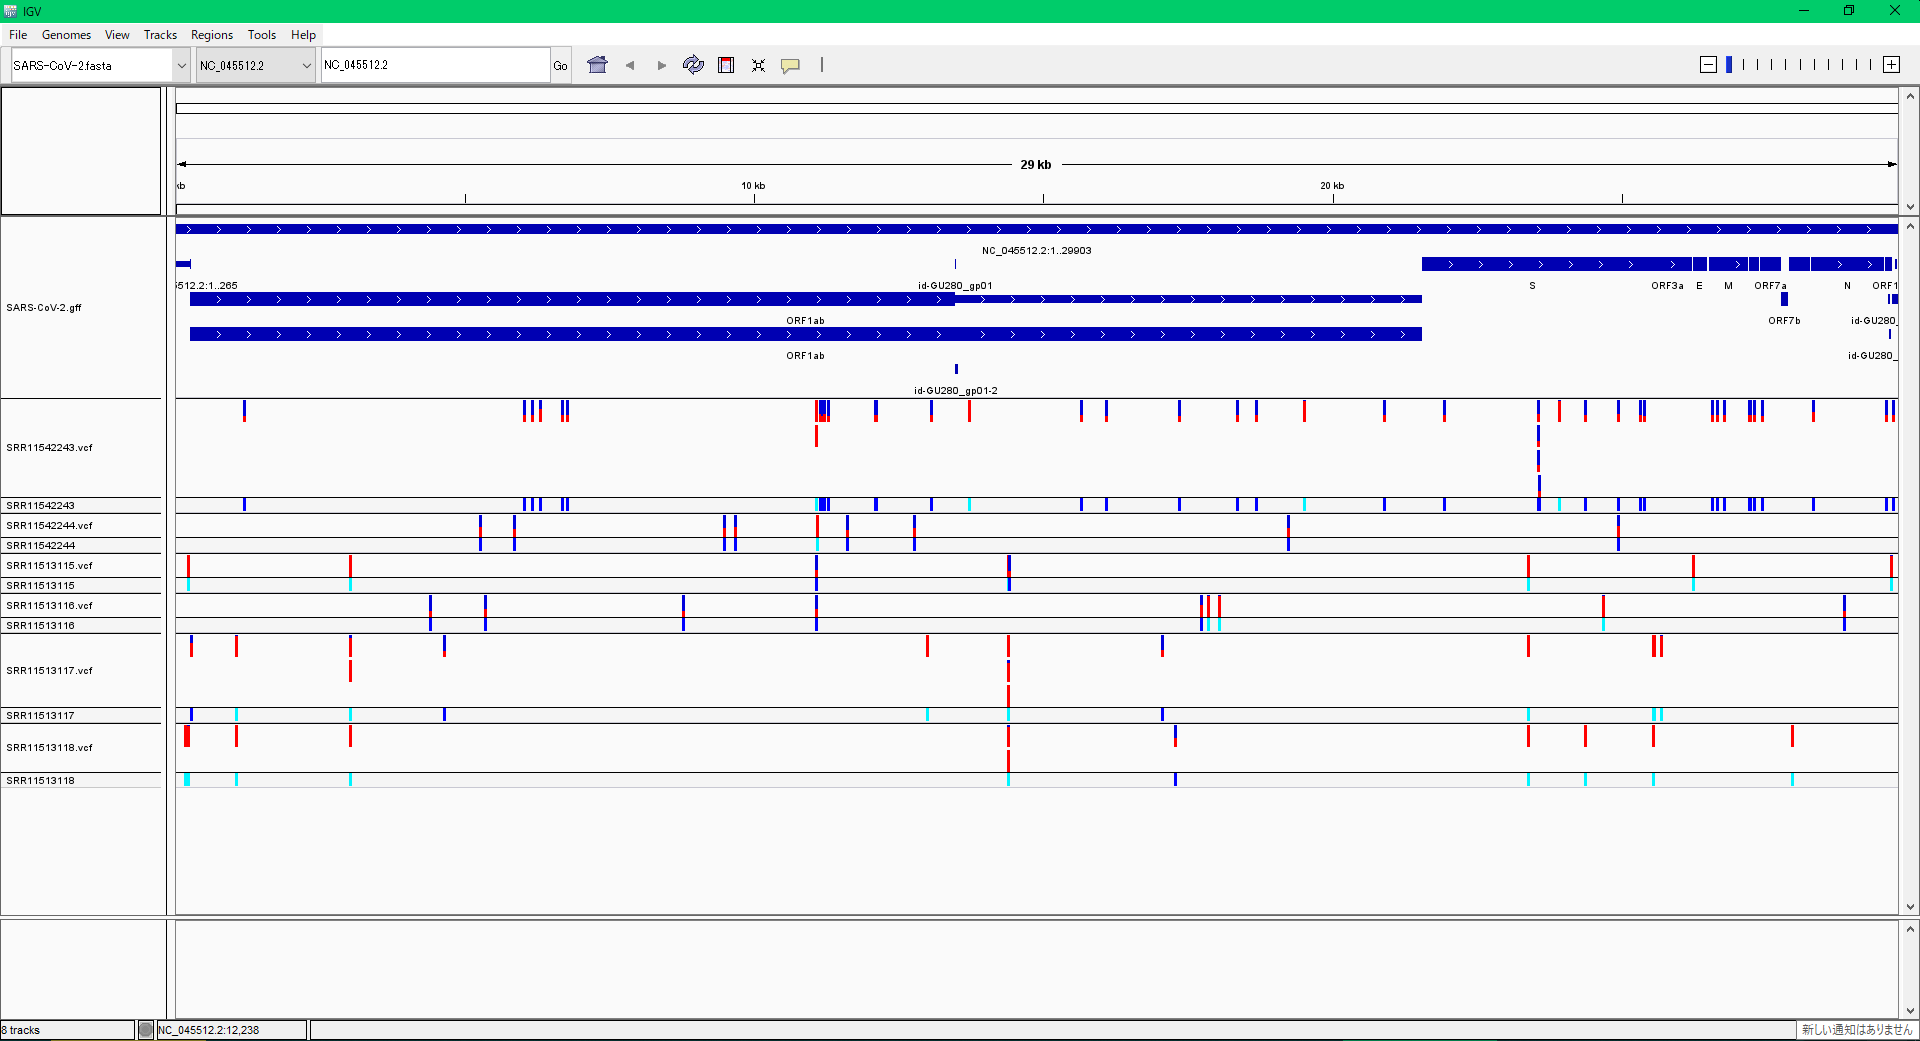
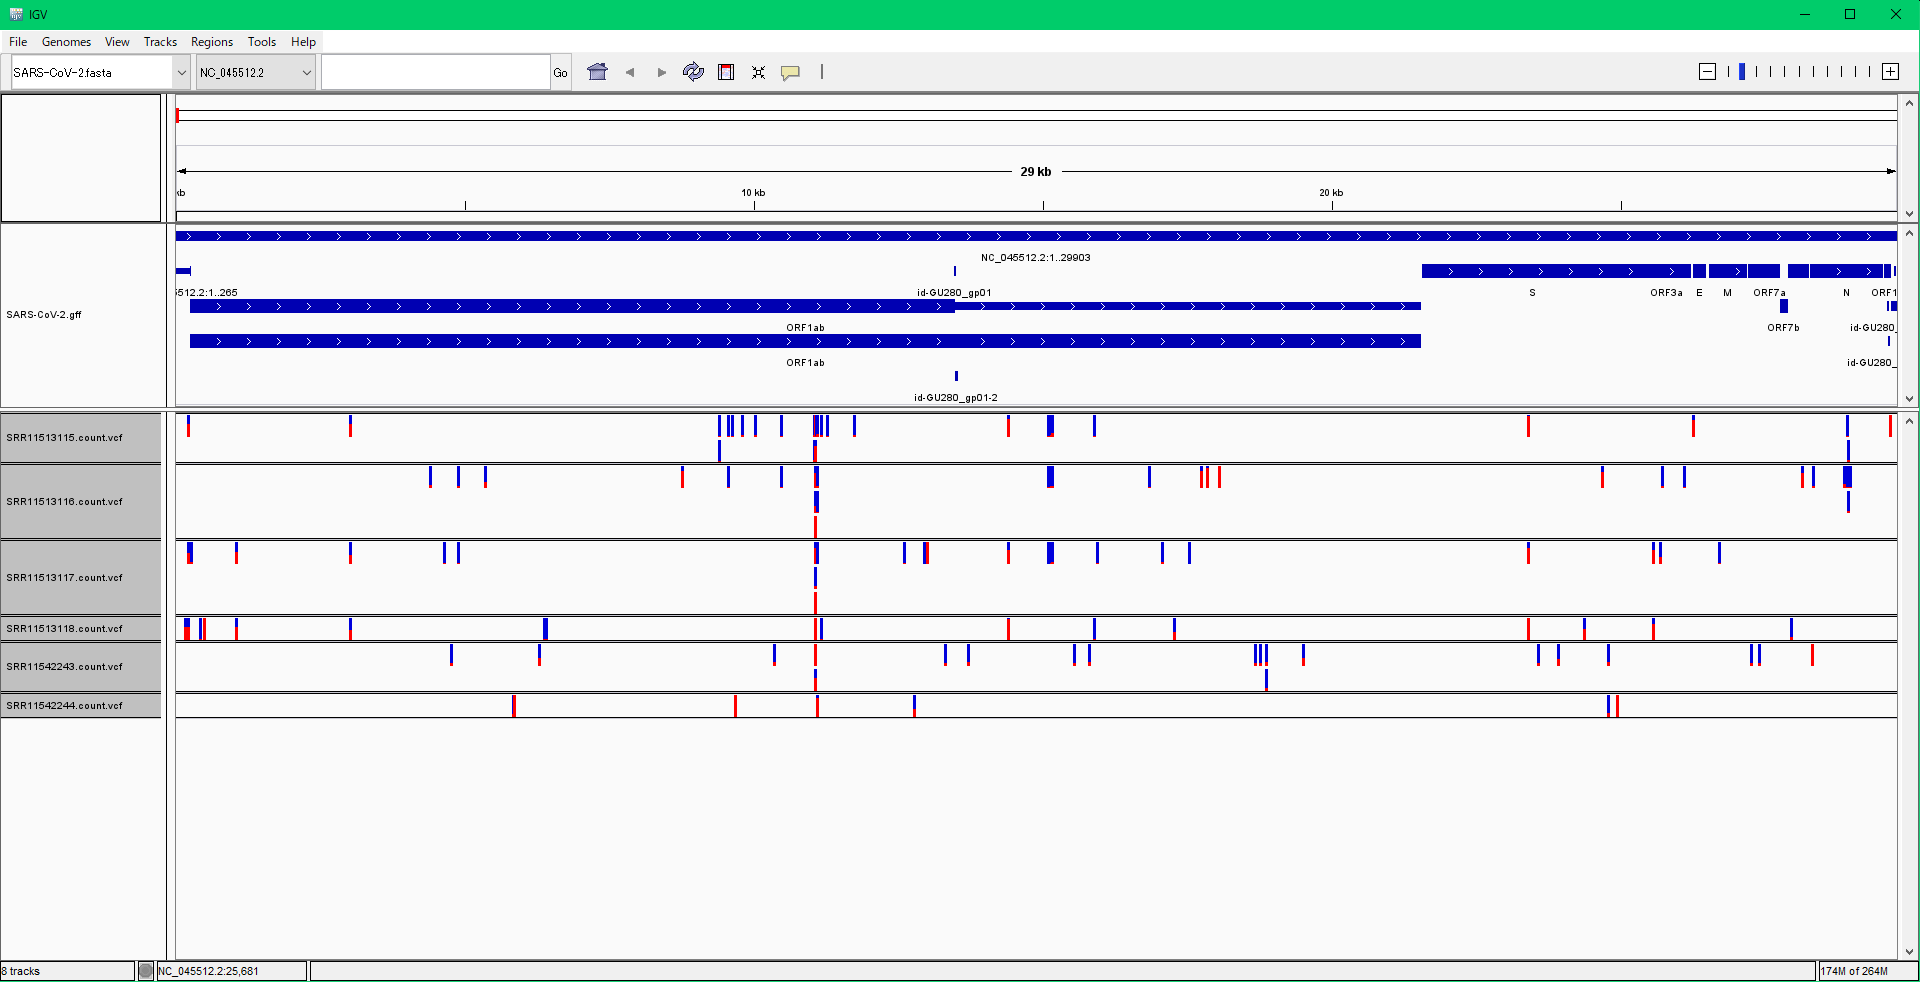
update covid19 page

diff --git a/covid19/index_ja.html b/covid19/index_ja.html
@@ -110,15 +110,20 @@ TTACAAAGTCCTCAGAATACAAAGGTCCTATTACGGATGTTTTCTACAAAGAAAACAGTTACACAACAACCATAAAACCA
     <li>確認用ファイル<br>
     <a href = "SARS-CoV-2.fasta" target = "_blank">SARS-CoV-2.fasta</a> From NCBI<br>
     <a href = "SARS-CoV-2.gff" target = "_blank">SARS-CoV-2.gff</a> From NCBI<br>
-    <a href = "SRR11542243.vcf" target = "_blank">SRR11542243.vcf</a> Sample from University Malaya<br>
-    <a href = "SRR11542244.vcf" target = "_blank">SRR11542244.vcf</a> Sample from University Malaya<br>
-    <a href = "SRR11513115.vcf" target = "_blank">SRR11513115.vcf</a> Sample from Utah Public Health Laboratory<br>
-    <a href = "SRR11513116.vcf" target = "_blank">SRR11513116.vcf</a> Sample from Utah Public Health Laboratory<br>
-    <a href = "SRR11513117.vcf" target = "_blank">SRR11513117.vcf</a> Sample from Utah Public Health Laboratory<br>
-    <a href = "SRR11513118.vcf" target = "_blank">SRR11513118.vcf</a> Sample from Utah Public Health Laboratory<br>
+    <a href = "SRR11542243.count.vcf" target = "_blank">SRR11542243.count.vcf</a> Sample from University Malaya<br>
+    <a href = "SRR11542244.count.vcf" target = "_blank">SRR11542244.count.vcf</a> Sample from University Malaya<br>
+    <a href = "SRR11513115.count.vcf" target = "_blank">SRR11513115.count.vcf</a> Sample from Utah Public Health Laboratory<br>
+    <a href = "SRR11513116.count.vcf" target = "_blank">SRR11513116.count.vcf</a> Sample from Utah Public Health Laboratory<br>
+    <a href = "SRR11513117.count.vcf" target = "_blank">SRR11513117.count.vcf</a> Sample from Utah Public Health Laboratory<br>
+    <a href = "SRR11513118.count.vcf" target = "_blank">SRR11513118.count.vcf</a> Sample from Utah Public Health Laboratory<br>
     <li>コメント<br>
     Intel Core i5-4210M CPU @ 2.60 GHz (2 cores, 4 threads), 8GB memoryのコンピュータで2分ほどで結果がでます。<br>
-    イルミナのシーケンサではきれいな結果が得られますが、nanoporeではノイズが多い結果になります。さらなる条件検討が必要です。
+    イルミナのシーケンサではきれいな結果が得られますが、nanoporeではノイズが多い結果になります。さらなる条件検討が必要です。<br>
+    vcfファイルはtarget.vcf、target.full.vcf、target.count.vcfの3種類が出力されます。<br>
+    ・target.vcfは検出された多型を持つリードと持たないリードを数えて遺伝子型が出力されています。IGVでは転座に関して対応していないのと、大きな欠失があると見づらくなるので、80bpの欠失や転座は出力しないようにしています。<br>
+    ・target.full.vcfは、上記のフィルターをかける前の結果です。<br>
+    ・target.count.vcfは多型を持つリードと持たないリードの数を調べずに、単純にリードから検出された多型の数でまとめた結果です。<br>
+    SARS-CoV-2の場合、ウイルス自体が単一でなく変異が異なる複数の種類のウイルスが混在しているので、厚く読んだデータの場合通常のvcfファイルでは、うまく検出されない場合が多いことがわかりました。検算をしないで、それぞれの部位で何回変異が検出されたかを出力しているtarget.count.vcfファイルで変異を確認することをお勧めします。
     <li>謝辞<br>
     Dr Ilkka HavukkalaにPEDのテストをしてもらいました。また、IVGに関する有益なアドバイスをもらいました。<br>
     </ul>
